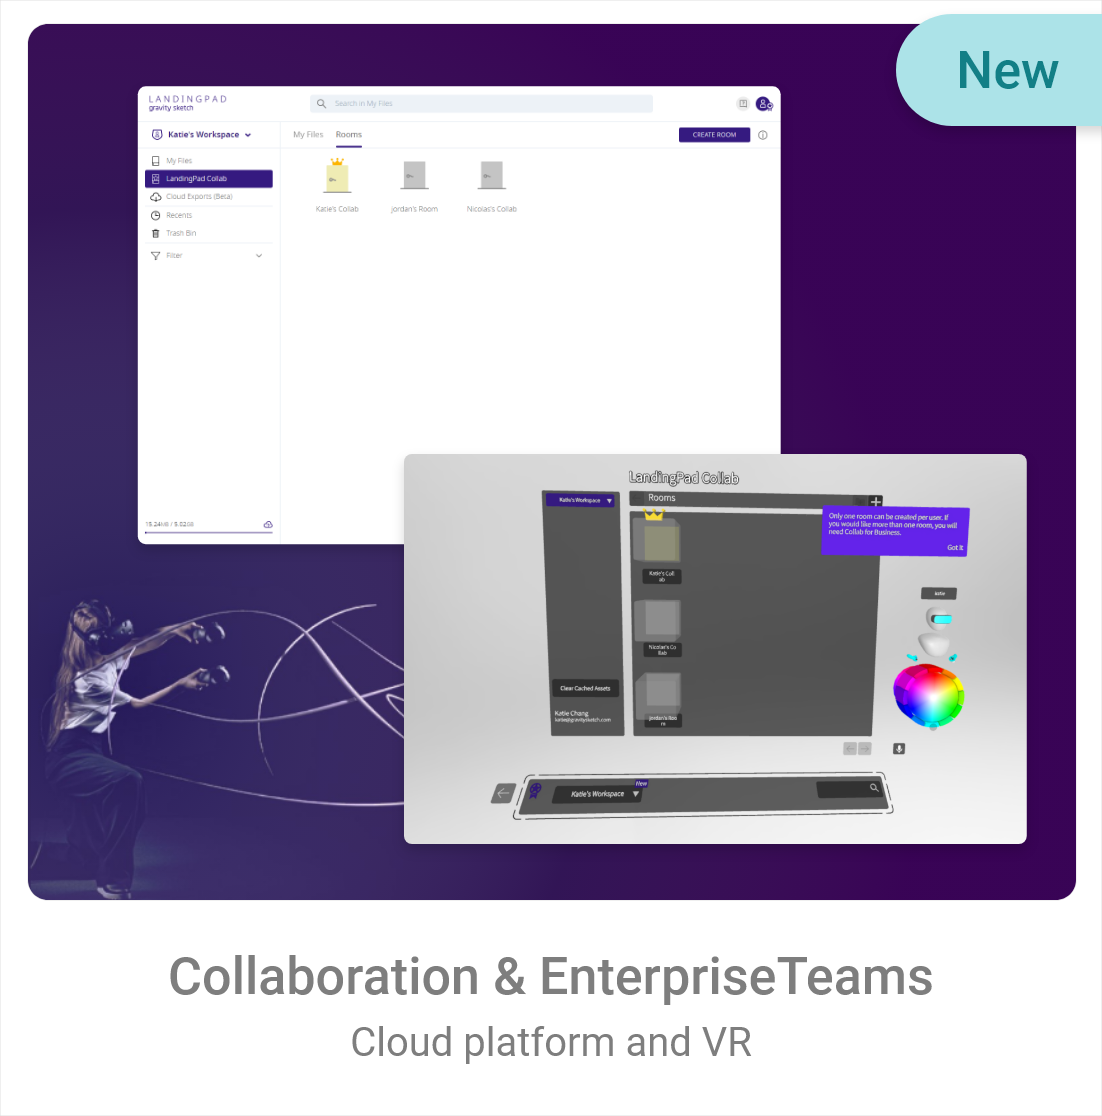
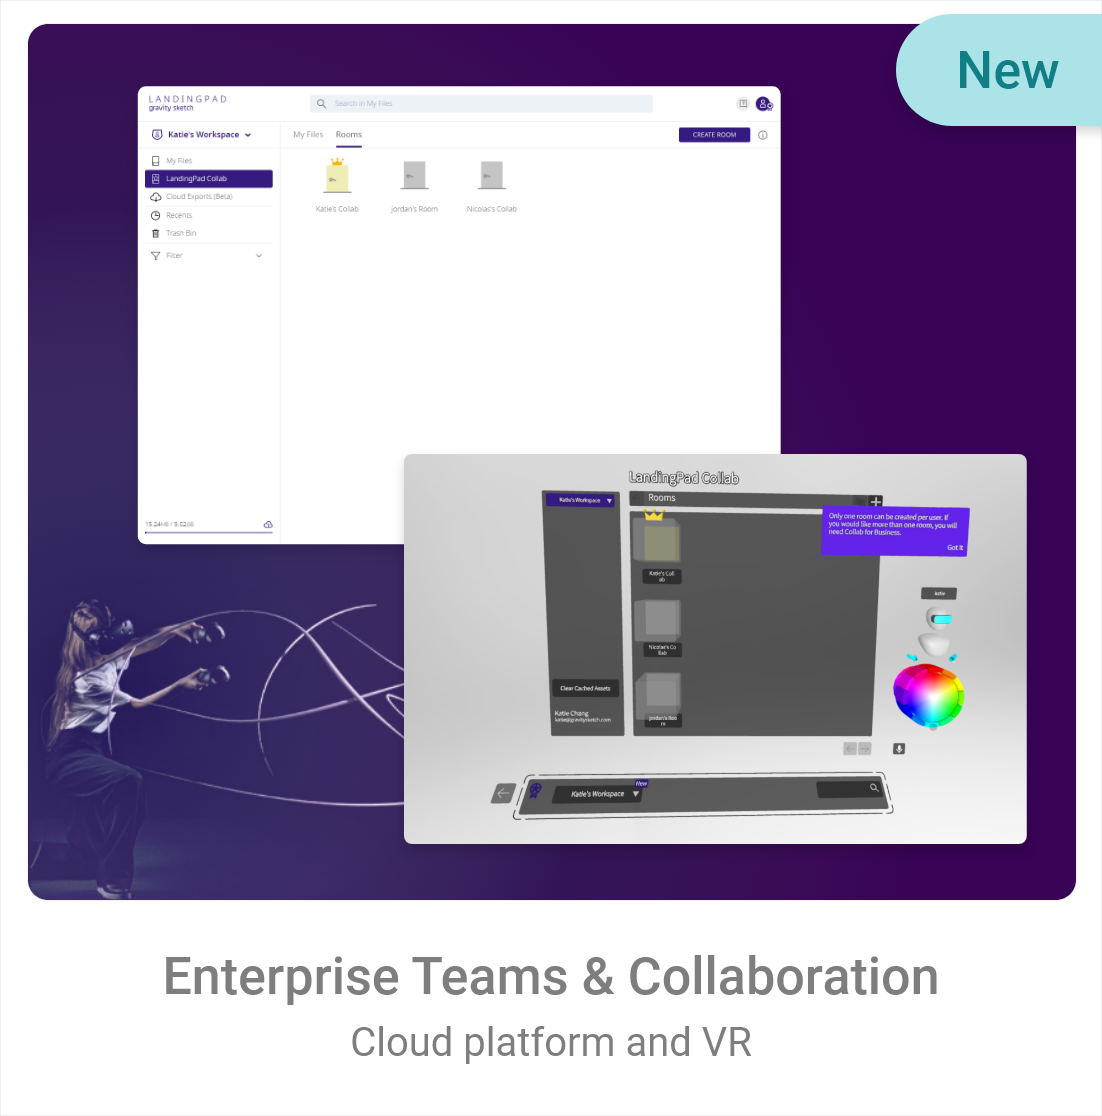
web

Changed region(s): [[0.1234, 0.853, 0.8639, 0.914]]

diff --git a/index.html b/index.html
@@ -511,7 +511,19 @@
       
       <section id="projects" class="projects-section">
         
-      
+    
+        <a
+        href="https://katiechanguk.github.io/Enterprise/"
+        target="_blank"
+        class="project project-tile"
+      >
+        <img
+          class="project-image"
+          src="https://github.com/katiechanguk/katiechanguk.github.io/blob/main/pic/Enterprise%402x.png?raw=true"
+          alt="project"
+        />
+      </a>
+
         <div class="projects-grid">
           <a
           href="https://katiechanguk.github.io/Teams/"
@@ -525,19 +537,6 @@
           />
         </a>
    
-        <a
-        href="https://katiechanguk.github.io/Enterprise/"
-        target="_blank"
-        class="project project-tile"
-      >
-        <img
-          class="project-image"
-          src="https://github.com/katiechanguk/katiechanguk.github.io/blob/main/pic/Enterprise%402x.png?raw=true"
-          alt="project"
-        />
-      </a>
-
-
 
           <a
             href="https://katiechanguk.github.io/Workfromhome/"

diff --git a/Teams/index.html b/Teams/index.html
@@ -2,7 +2,7 @@
 <!DOCTYPE html>
 <html>
   <head>
-    <title>Collaboration & Enterprise Teams - Katie Chang</title>
+    <title>Enterprise Teams & Collaboration - Katie Chang</title>
     <link rel="icon" href="https://github.com/tengfangchang/portfolio/blob/master/pic/3232%20icon.png?raw=true" type="image/ico" />
     
     <meta name="viewport" content="width=device-width, initial-scale=1">
